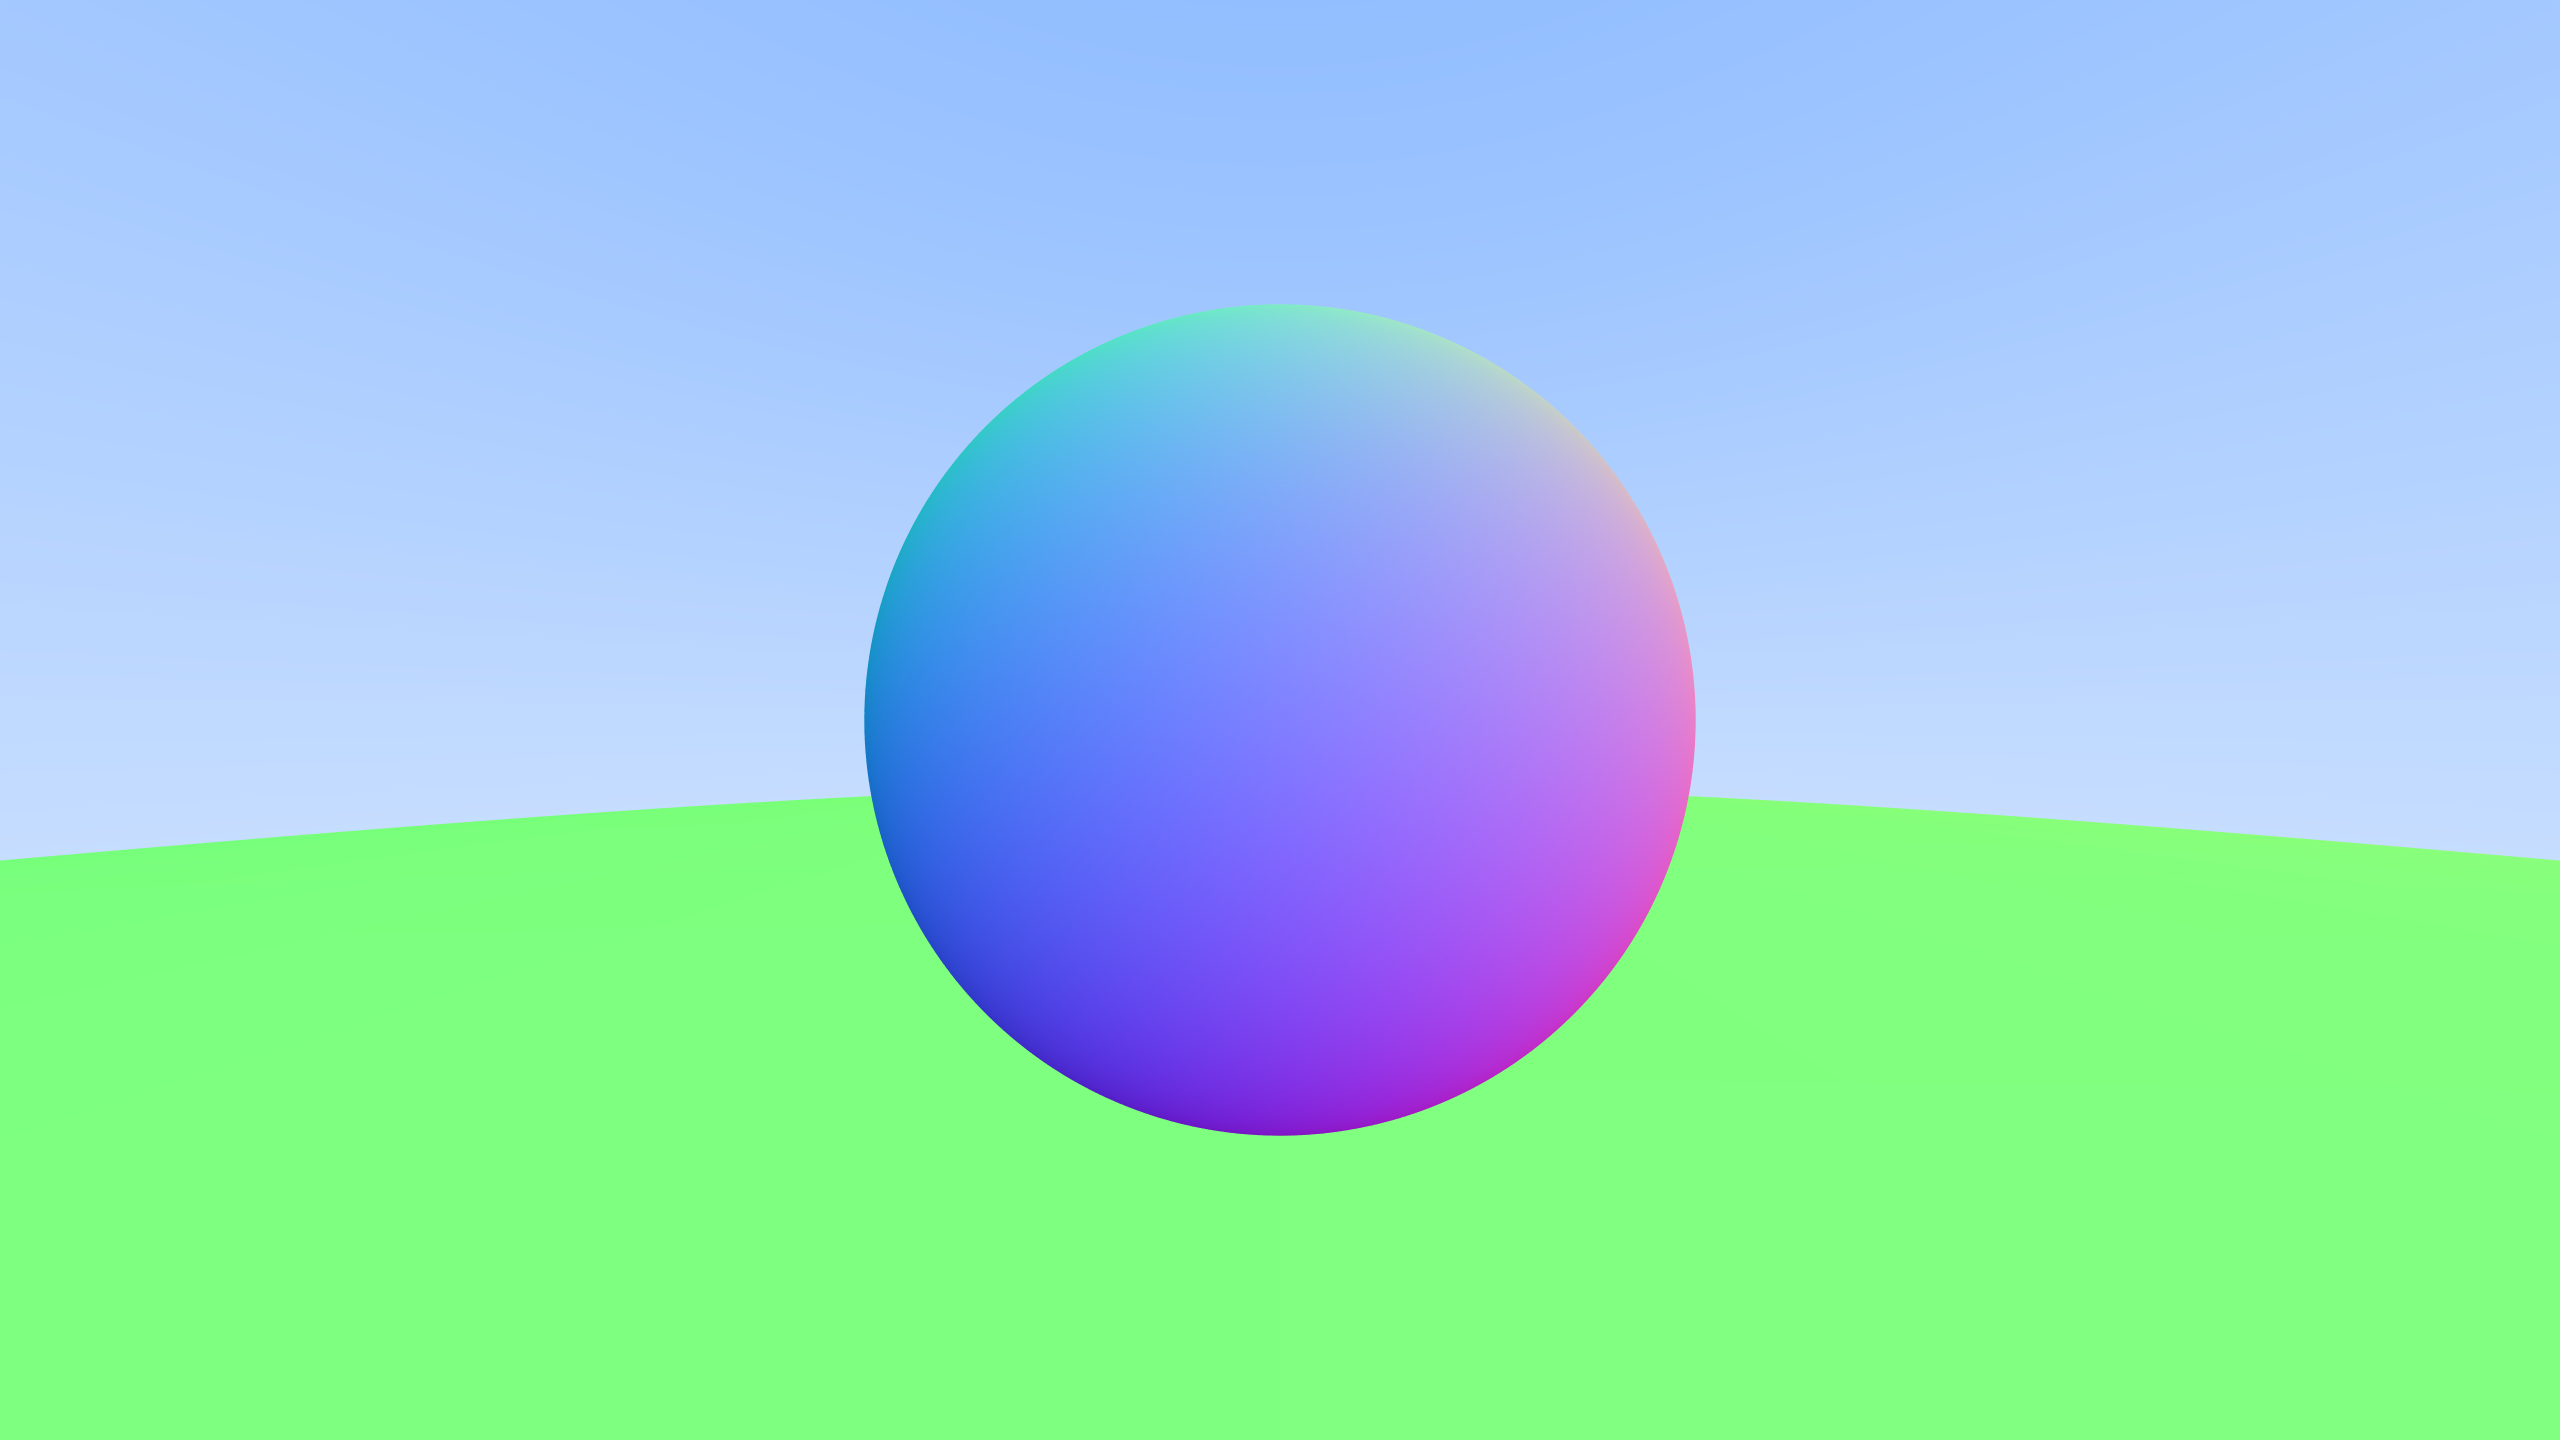
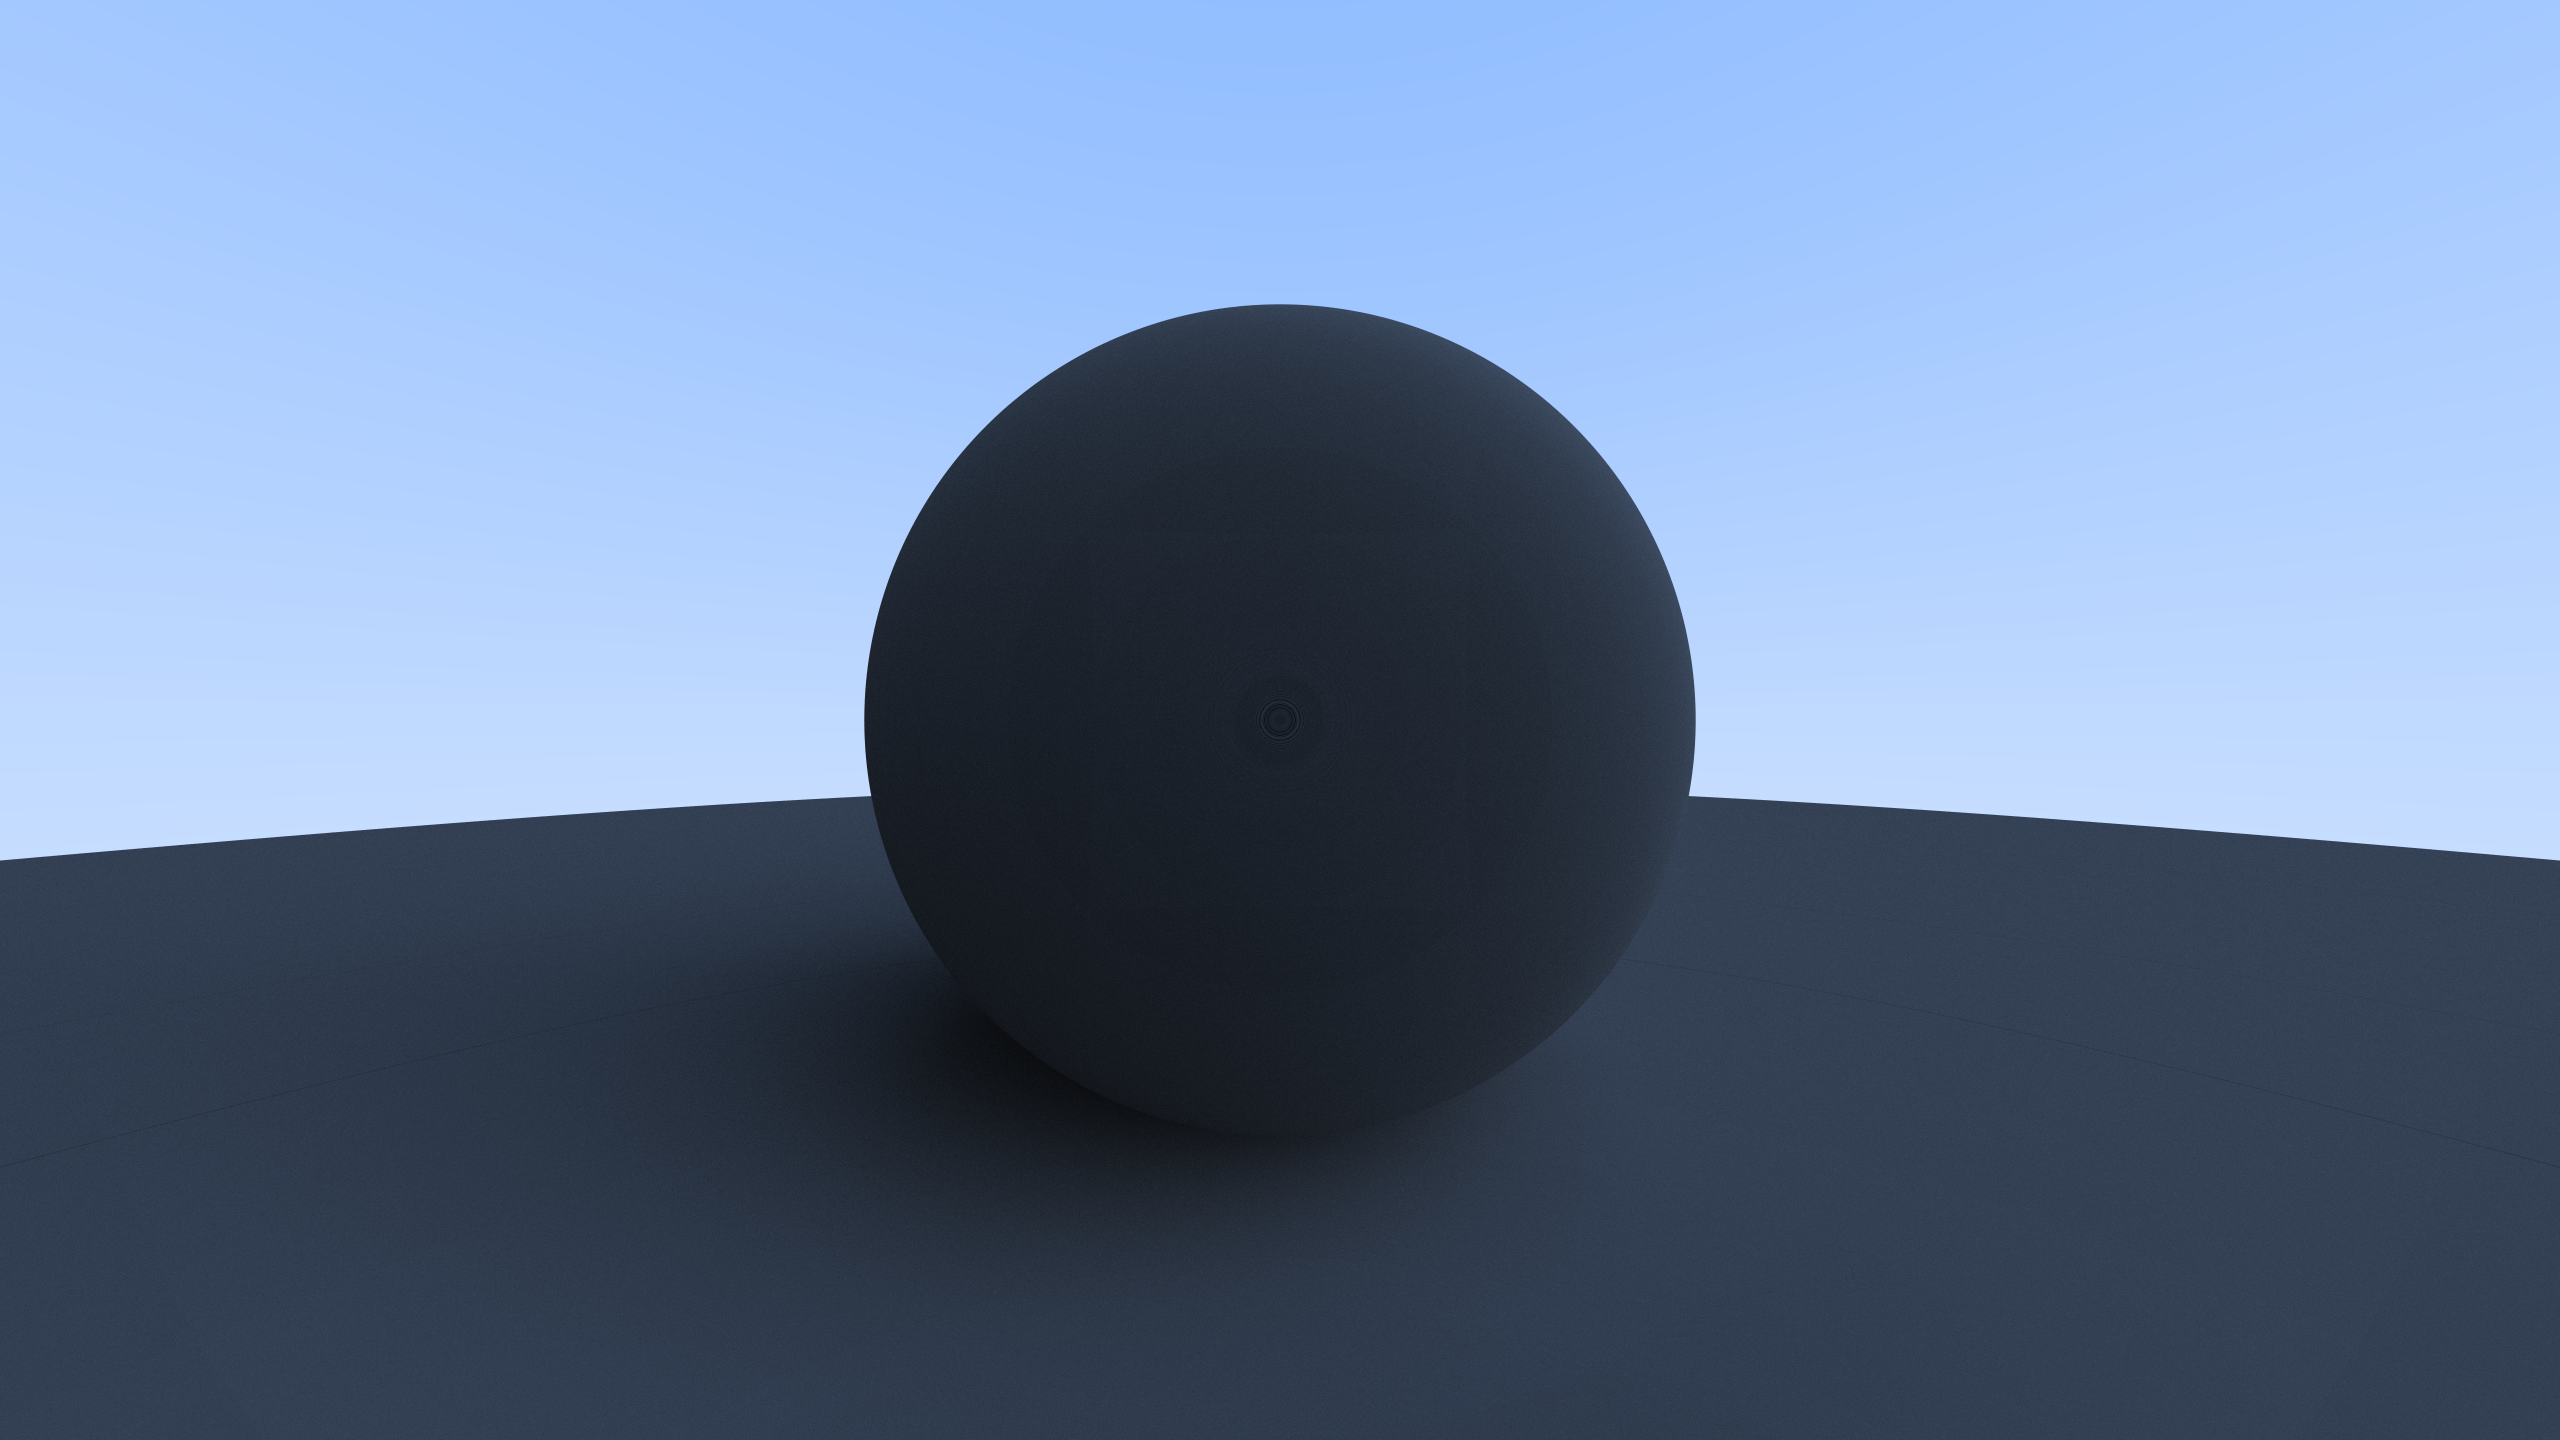
Added diffuse lighting.

diff --git a/Amarelo/src/Rendering/Camera.cpp b/Amarelo/src/Rendering/Camera.cpp
@@ -3,24 +3,34 @@
 #include <Utils/Image.h>
 #include <iostream>
 
-vec3<float> Camera::RayColor(const Ray& ray, const HittableList& world) const
+vec3<float> Camera::RayColor(const Ray& ray, uint32_t maxBounces, const HittableList& world) const
 {
+	if (maxBounces <= 0)
+		return { 0.0f }; 
+
 	HitRecord result;
 
+
+	//If we hit something, we will bounce once again. This will happens until we reach the sky (i.e: hitting nothing). If we reach the sky, we will take the sky color (let's say, {1.0f, 1.0f, 1.0f}) and return it. Every return divides the result by half. 
+	//This simulates that the ray is losing energy on each bounce. So for every return (i.e: bounces) we halve the result. Rays that bounce once and then go straight up, are the ones that have the lowest number of halves, thus the brighter pixels.
+	//If we fail to hit something and reach the max bounce count, we will just return the color of the maxBounce, in our case, black. We will just halve the black and at the end the pixel is going to be black, this is rare though, eventually they always get up to the sky
+	//so even if it takes many bounces, we will just return a gray or dark gray (after halving many times).
+	//The return default color (maxBounces <= 0) doesn't matter much here, because after too many halves (when we exceed a high number eventually) will make the color always closer to black. So even if you select a bright white, it will end up as being black or very close to it.
+	//A way to confirm this is to reduce the number of bounces and select a custom color. If you select, for instance, a Purple and select 2 bounces, eventually we will get rays that can't reach the sky and they will be halved at most two times. By only halving 2x we still can see that it is purple,
+	//although being a darker version of the original purple (because of the halves).
 	if (world.Hit(ray, Interval(0, Amrl::g_AmrlInfinity), result))
 	{
-		vec3<float> normalColor = result.surfaceNormal;
-		normalColor = vec3<float>(normalColor.x + 1, normalColor.y + 1, normalColor.z + 1) * 0.5f;
-		return normalColor;
-		//return Amrl::ConvertColor(normalColor);
+		vec3 dir = Amrl::RandomOnHemisphere(result.surfaceNormal);
+
+		return 0.5f * RayColor(Ray(result.hitLocation, dir), (maxBounces - 1), world);
 	}
 
-	vec3<float> unitDirection = ray.GetDirection().Normalized();
-	float gradientPosition = (unitDirection.y + 1.0f) / 2.0f;
-	vec3<float> gradientColor = vec3<float>::lerp({ 1.0f, 1.0f, 1.0f }, { 0.5f, 0.7f, 1.0f }, gradientPosition);
-
-	//return Amrl::ConvertColor(gradientColor);
-	return gradientColor;
+		vec3<float> unitDirection = ray.GetDirection().Normalized();
+		float gradientPosition = (unitDirection.y + 1.0f) / 2.0f;
+		vec3<float> gradientColor = vec3<float>::lerp({ 1.0f, 1.0f, 1.0f }, { 0.5f, 0.7f, 1.0f }, gradientPosition);
+	
+		return gradientColor;
+		
 }
 
 void Camera::Render(const HittableList& world) const
@@ -38,7 +48,7 @@ void Camera::Render(const HittableList& world) const
 			for (int sample = 0; sample < m_SPP; sample++)
 			{
 				Ray ray = GenRay(x, y);
-				color += RayColor(ray, world);
+				color += RayColor(ray, 50, world);
 			}
 
 			outputImg->SetPixel(color  * m_SPPScale);

diff --git a/Amarelo/src/Math/generalmath.h b/Amarelo/src/Math/generalmath.h
@@ -20,6 +20,41 @@ namespace Amrl
 		return static_cast<T>(dist(generator));
 	}
 
+	inline vec3<float> Random(float min, float max)
+	{
+		float x = Gen<float>(min, max);
+		float y = Gen<float>(min, max);
+		float z = Gen<float>(min, max);
+
+		return vec3(x, y, z);
+	}
+
+	inline vec3<float> RandomInUnitSphere()
+	{
+		while (true)
+		{
+			vec3 point = Random(-1.0f, 1.0f);
+
+			if (point.Length2() < 1)
+				return point;
+		}
+	}
+
+	inline vec3<float> RandomUnitVector()
+	{
+		return RandomInUnitSphere().Normalized();
+	}
+
+	inline vec3<float> RandomOnHemisphere(const vec3<float>& normal)
+	{
+		vec3 onUnitSphere = RandomUnitVector();
+
+		if (vec3<float>::Dot(onUnitSphere, normal) > 0)
+			return onUnitSphere;
+
+		return -onUnitSphere;
+	}
+
 	inline vec3<uint8_t> ConvertColor(const vec3<float>& pixelColor)
 	{
 		uint8_t ir = static_cast<uint8_t>(255.999 * pixelColor.r);

diff --git a/Amarelo/src/Rendering/Camera.h b/Amarelo/src/Rendering/Camera.h
@@ -22,7 +22,7 @@ public:
 
 	inline void AttachViewport(Viewport* viewport) { m_Viewport = viewport; }
 
-	vec3<float> RayColor(const Ray& ray, const HittableList& world) const;
+	vec3<float> RayColor(const Ray& ray, uint32_t maxBounces, const HittableList& world) const;
 	void Render(const HittableList& world) const;
 
 private:

diff --git a/Amarelo/src/Math/vec3.cpp b/Amarelo/src/Math/vec3.cpp
@@ -1,0 +1,2 @@
+#include "vec3.h"
+
